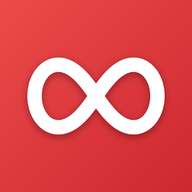
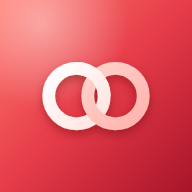
muda icones e sana problema de duas barras aparecendo quando app instalado

diff --git a/style.css b/style.css
@@ -153,10 +153,10 @@ input[type="text"]:focus, input[type="search"]:focus, input[type="date"]:focus {
   flex: none; width: 40px; height: 40px;
   display: grid; place-items: center;
   border-radius: 13px;
-  background: linear-gradient(135deg, #f25a5a, #cd2830);
-  box-shadow: 0 6px 14px rgba(205, 40, 48, .32), inset 0 1px 0 rgba(255, 255, 255, .35);
+  background: radial-gradient(circle at 22% 12%, rgba(255, 255, 255, .38), transparent 62%), linear-gradient(135deg, #ff7a6e, #e63b48 50%, #a8142a);
+  box-shadow: 0 6px 14px rgba(168, 20, 42, .34), inset 0 1px 0 rgba(255, 255, 255, .35);
 }
-.topo-marca svg { width: 24px; height: auto; fill: none; stroke: #fff; stroke-width: 14; stroke-linecap: round; stroke-linejoin: round; }
+.topo-marca svg { width: 25px; height: auto; overflow: visible; filter: drop-shadow(0 2px 2px rgba(90, 0, 16, .3)); }
 .topo-textos { flex: 1; min-width: 0; }
 .topo-titulo { margin: 0; font-size: 1.35rem; font-weight: 800; line-height: 1.15; }
 .topo-sub { margin: 0; font-size: .8rem; color: var(--suave); overflow: hidden; text-overflow: ellipsis; white-space: nowrap; }
@@ -246,7 +246,7 @@ input[type="text"]:focus, input[type="search"]:focus, input[type="date"]:focus {
   width: 116px; height: 116px;
   border-radius: 31px;
   display: grid; place-items: center;
-  background: linear-gradient(135deg, #f25a5a, #cd2830);
+  background: radial-gradient(circle at 22% 12%, rgba(255, 255, 255, .4), transparent 62%), linear-gradient(135deg, #ff7a6e, #e63b48 50%, #a8142a);
   box-shadow: 0 20px 44px rgba(80, 0, 10, .45), inset 0 1px 0 rgba(255, 255, 255, .4);
   outline: 2px solid rgba(255, 255, 255, .4);
   animation: flutuar-logo 5s ease-in-out infinite, entrar-logo .9s cubic-bezier(.2, .9, .3, 1.2) both;
@@ -260,23 +260,20 @@ input[type="text"]:focus, input[type="search"]:focus, input[type="date"]:focus {
   pointer-events: none;
 }
 .logo-tile::after { animation-delay: 1.7s; }
-@keyframes onda { 0% { transform: scale(1); opacity: .7; } 100% { transform: scale(1.6); opacity: 0; } }
+@keyframes onda { 0% { inset: 0; border-radius: 31px; opacity: .7; } 100% { inset: -30px; border-radius: 61px; opacity: 0; } }
 @keyframes flutuar-logo { 0%, 100% { translate: 0 0; } 50% { translate: 0 -8px; } }
 @keyframes entrar-logo { from { opacity: 0; scale: .6; } to { opacity: 1; scale: 1; } }
 
-.inf { width: 80px; height: auto; overflow: visible; filter: drop-shadow(0 3px 5px rgba(90, 0, 10, .35)); }
-.inf .base {
-  fill: none; stroke: #fff; stroke-width: 12; stroke-linecap: round; stroke-linejoin: round;
-  animation: desenhar 1.7s .25s cubic-bezier(.65, 0, .35, 1) both;
-}
+.elos { width: 84px; height: auto; overflow: visible; filter: drop-shadow(0 4px 7px rgba(90, 0, 16, .38)); }
+.elos .anel { stroke-linecap: round; animation: desenhar 1.3s .25s cubic-bezier(.65, 0, .35, 1) both; }
+.elos .anel.d { animation-delay: .65s; }
 @keyframes desenhar {
   from { stroke-dasharray: 100; stroke-dashoffset: 100; }
   to { stroke-dasharray: 100; stroke-dashoffset: 0; }
 }
-.inf .ponto { fill: #e03a3e; }
 
 .marca {
-  margin: 1.3rem 0 .3rem;
+  margin: 2.7rem 0 .4rem;
   font-size: 2.5rem; font-weight: 800; letter-spacing: .01em;
   text-shadow: 0 2px 14px rgba(80, 0, 10, .35);
   animation: sobe .7s .35s both;
@@ -349,9 +346,8 @@ input[type="text"]:focus, input[type="search"]:focus, input[type="date"]:focus {
 .stat .leg { font-size: .78rem; color: var(--suave); }
 
 @media (prefers-reduced-motion: reduce) {
-  .orb, .logo-tile, .logo-tile::before, .logo-tile::after, .inf .base,
+  .orb, .logo-tile, .logo-tile::before, .logo-tile::after, .elos, .elos .anel,
   .marca, .lema, .destaques li, .btn.google, .rodape-hero { animation: none !important; }
-  .inf .ponto { display: none; }
 }
 
 /* Barra de navegação flutuante, com indicador que desliza até a aba ativa */

diff --git a/index.html b/index.html
@@ -9,11 +9,12 @@
     // Aplica o tema escolhido antes de desenhar a tela (evita piscar).
     try { var t = localStorage.getItem("conexoes-tema"); if (t === "claro" || t === "escuro") { document.documentElement.setAttribute("data-theme", t === "escuro" ? "dark" : "light"); document.documentElement.setAttribute("data-tema-app", "1"); } } catch (e) {}
   </script>
-  <meta name="theme-color" content="#e03a3e">
+  <meta name="theme-color" id="meta-cor" content="#f7f4f4">
   <meta name="description" content="Dívidas, contas do mês e teto de gastos da casa.">
   <link rel="manifest" href="manifest.webmanifest">
-  <link rel="icon" href="icons/icon-192.png">
-  <link rel="apple-touch-icon" href="icons/icon-192.png">
+  <link rel="icon" type="image/svg+xml" href="icons/icone.svg">
+  <link rel="icon" type="image/png" href="icons/icon-192.png">
+  <link rel="apple-touch-icon" href="icons/icon-180.png">
   <meta name="apple-mobile-web-app-capable" content="yes">
   <meta name="apple-mobile-web-app-title" content="Conexões">
   <link rel="stylesheet" href="style.css">
@@ -36,15 +37,13 @@
 
     <div class="hero-conteudo">
       <div class="logo-tile" aria-hidden="true">
-        <svg class="inf" viewBox="0 0 160 100" xmlns="http://www.w3.org/2000/svg">
-          <path id="inf-caminho" class="base" pathLength="100"
-            d="M80 50 C95 22 142 22 142 50 C142 78 95 78 80 50 C65 22 18 22 18 50 C18 78 65 78 80 50 Z"/>
-          <circle class="ponto" r="4.6">
-            <animateMotion dur="4.4s" repeatCount="indefinite" begin="1.8s"><mpath href="#inf-caminho"/></animateMotion>
-          </circle>
-          <circle class="ponto" r="4.6">
-            <animateMotion dur="4.4s" repeatCount="indefinite" begin="-0.4s"><mpath href="#inf-caminho"/></animateMotion>
-          </circle>
+        <svg class="elos" viewBox="104 158 304 196" xmlns="http://www.w3.org/2000/svg" aria-hidden="true">
+          <defs><clipPath id="elos-cima"><rect x="212" y="120" width="88" height="136"/></clipPath></defs>
+          <g fill="none" stroke-width="34">
+            <circle class="anel e" cx="204" cy="256" r="74" pathLength="100" stroke="#fff"/>
+            <circle class="anel d" cx="308" cy="256" r="74" pathLength="100" stroke="#ffc4bd"/>
+            <circle class="anel e" cx="204" cy="256" r="74" pathLength="100" stroke="#fff" clip-path="url(#elos-cima)"/>
+          </g>
         </svg>
       </div>
 
@@ -107,7 +106,14 @@
   <div id="app" hidden>
     <header class="topo">
       <div class="topo-marca" aria-hidden="true">
-        <svg viewBox="0 0 160 100"><path d="M80 50 C95 22 142 22 142 50 C142 78 95 78 80 50 C65 22 18 22 18 50 C18 78 65 78 80 50 Z"/></svg>
+        <svg class="elos-topo" viewBox="104 158 304 196" xmlns="http://www.w3.org/2000/svg" aria-hidden="true">
+          <defs><clipPath id="elos-topo-cima"><rect x="212" y="120" width="88" height="136"/></clipPath></defs>
+          <g fill="none" stroke-width="34">
+            <circle class="anel e" cx="204" cy="256" r="74" pathLength="100" stroke="#fff"/>
+            <circle class="anel d" cx="308" cy="256" r="74" pathLength="100" stroke="#ffc4bd"/>
+            <circle class="anel e" cx="204" cy="256" r="74" pathLength="100" stroke="#fff" clip-path="url(#elos-topo-cima)"/>
+          </g>
+        </svg>
       </div>
       <div class="topo-textos">
         <h1 class="topo-titulo" id="titulo-pagina">Início</h1>

diff --git a/app.js b/app.js
@@ -21,10 +21,24 @@ const MAX_MEMBROS = 2;
 // ---------- Utilidades de tela ----------
 const TELAS = ["tela-carregando", "tela-login", "tela-casa"];
 
+let telaAtual = "tela-carregando";
 function mostrarTela(nome) {
+  telaAtual = nome;
   for (const t of TELAS) $(t).hidden = t !== nome;
   $("app").hidden = nome !== "app";
+  atualizarCorBarra();
 }
+
+// Cor das barras do sistema (status e navegação) acompanha a tela: sem "faixas" de outra cor.
+function atualizarCorBarra() {
+  const meta = document.getElementById("meta-cor");
+  if (!meta) return;
+  const attr = document.documentElement.getAttribute("data-theme");
+  const escuro = attr ? attr === "dark" : window.matchMedia("(prefers-color-scheme: dark)").matches;
+  const heroVermelho = telaAtual === "tela-login" || telaAtual === "tela-casa";
+  meta.setAttribute("content", heroVermelho ? "#ee5154" : escuro ? "#141010" : "#f7f4f4");
+}
+window.matchMedia("(prefers-color-scheme: dark)").addEventListener("change", atualizarCorBarra);
 
 function mostrarErro(elId, msg) {
   const el = $(elId);
@@ -356,6 +370,7 @@ function aplicarTema(modo) {
     raiz.setAttribute("data-theme", modo === "escuro" ? "dark" : "light");
     raiz.setAttribute("data-tema-app", "1");
   }
+  atualizarCorBarra();
   document.querySelectorAll("#seletor-tema [data-tema]").forEach((b) => {
     const ativo = b.dataset.tema === modo;
     b.classList.toggle("ativo", ativo);

diff --git a/sw.js b/sw.js
@@ -1,6 +1,6 @@
 // Service worker simples: guarda os arquivos do app para abrir offline.
 // Os dados financeiros NÃO passam por aqui; o Firestore tem cache próprio.
-const VERSAO = "v12";
+const VERSAO = "v15";
 const CACHE = `financas-${VERSAO}`;
 const ARQUIVOS = [
   "./",
@@ -23,6 +23,8 @@ const ARQUIVOS = [
   "./js/backend-firebase.js",
   "./js/backend-demo.js",
   "./manifest.webmanifest",
+  "./icons/icone.svg",
+  "./icons/icon-180.png",
   "./icons/icon-192.png",
   "./icons/icon-512.png"
 ];
